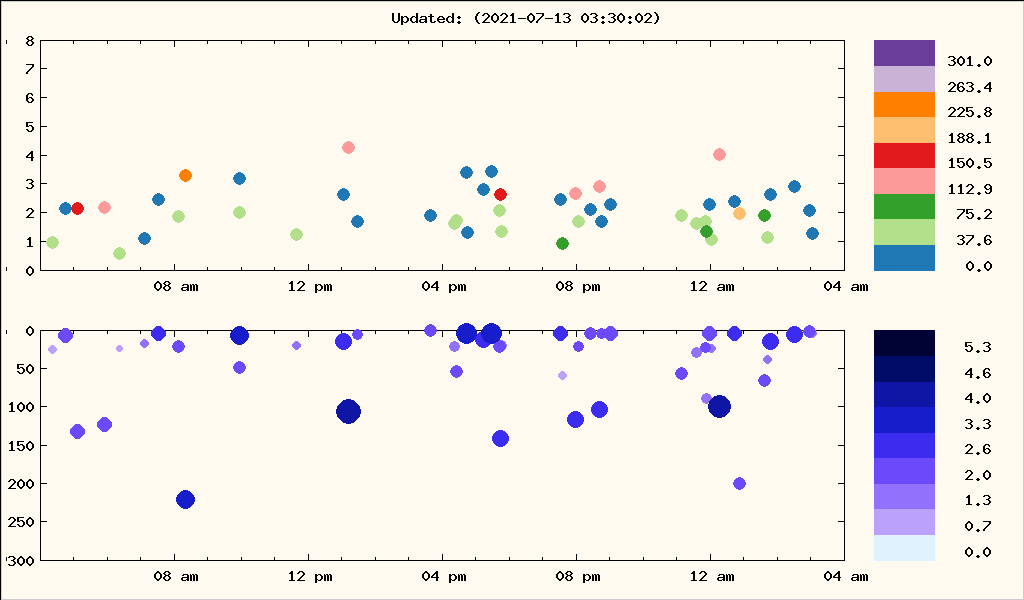
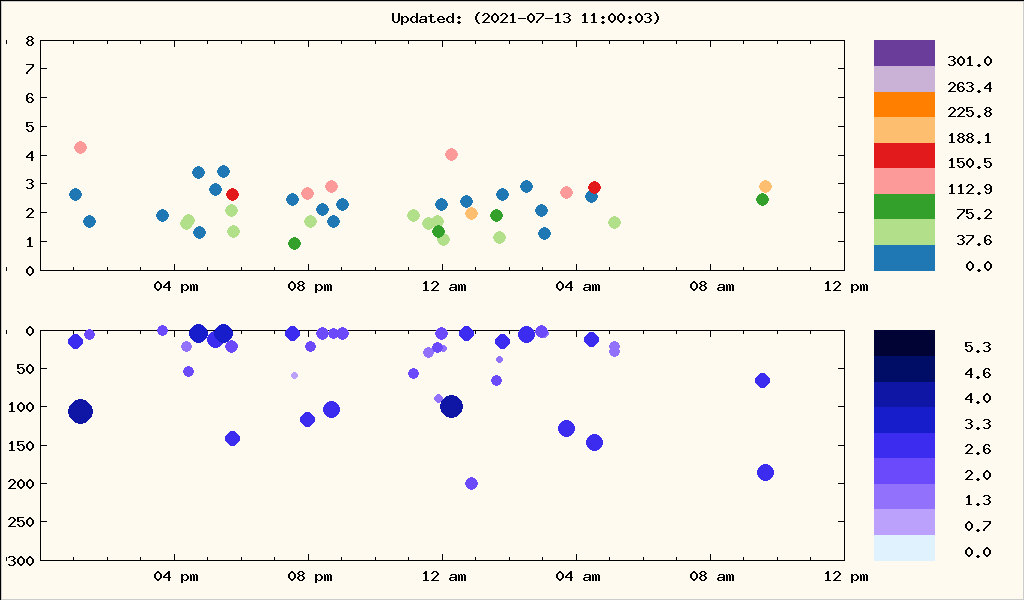
Snapshot

diff --git a/index.html b/index.html
@@ -65,12 +65,68 @@ td.depth { text-align: right; }
 </tr>
 <tr>
 	 <td align="left">&nbsp;</td> 
-	 <td align="left">03:30:02 am</td> 
-	 <td align="right">27:07</td> 
+	 <td align="left">11:00:03 am</td> 
+	 <td align="right">1:20:11</td> 
 	 <td colspan="3">&nbsp;</td> 
 </tr>
 <tr>
 	 <td align="left">2021-07-13</td> 
+	 <td align="left">09:39:52 am</td> 
+	 <td align="right">6:38</td> 
+	 <td class="magnitude06">2.89</td> 
+	 <td class="depth">186.43</td> 
+	 <td align="right"><a href="http://www.geonet.org.nz/quakes/region/newzealand/2021p521358" title="2021p521358" target="_blank" class="publicid">15 km south-west of Hawera</a></td> 
+</tr>
+<tr>
+	 <td align="left">&nbsp;</td> 
+	 <td align="left">09:33:14 am</td> 
+	 <td align="right">4:23:41</td> 
+	 <td class="magnitude05">2.46</td> 
+	 <td class="depth">66.45</td> 
+	 <td align="right"><a href="http://www.geonet.org.nz/quakes/region/newzealand/2021p521346" title="2021p521346" target="_blank" class="publicid">30 km east of Nelson</a></td> 
+</tr>
+<tr>
+	 <td align="left">&nbsp;</td> 
+	 <td align="left">05:09:33 am</td> 
+	 <td align="right">56</td> 
+	 <td class="magnitude04">1.64</td> 
+	 <td class="depth">21.08</td> 
+	 <td align="right"><a href="http://www.geonet.org.nz/quakes/region/newzealand/2021p520850" title="2021p520850" target="_blank" class="publicid">20 km south-east of Napier</a></td> 
+</tr>
+<tr>
+	 <td align="left">&nbsp;</td> 
+	 <td align="left">05:08:37 am</td> 
+	 <td align="right">35:10</td> 
+	 <td class="magnitude04">1.65</td> 
+	 <td class="depth">28.50</td> 
+	 <td align="right"><a href="http://www.geonet.org.nz/quakes/region/newzealand/2021p520849" title="2021p520849" target="_blank" class="publicid">Within 5 km of Waipukurau</a></td> 
+</tr>
+<tr>
+	 <td align="left">&nbsp;</td> 
+	 <td align="left">04:33:27 am</td> 
+	 <td align="right">5:02</td> 
+	 <td class="magnitude06">2.88</td> 
+	 <td class="depth">146.76</td> 
+	 <td align="right"><a href="http://www.geonet.org.nz/quakes/region/newzealand/2021p520783" title="2021p520783" target="_blank" class="publicid">15 km east of Tokoroa</a></td> 
+</tr>
+<tr>
+	 <td align="left">&nbsp;</td> 
+	 <td align="left">04:28:25 am</td> 
+	 <td align="right">46:03</td> 
+	 <td class="magnitude05">2.54</td> 
+	 <td class="depth">12.00</td> 
+	 <td align="right"><a href="http://www.geonet.org.nz/quakes/region/newzealand/2021p520774" title="2021p520774" target="_blank" class="publicid">30 km north-east of Seddon</a></td> 
+</tr>
+<tr>
+	 <td align="left">&nbsp;</td> 
+	 <td align="left">03:42:22 am</td> 
+	 <td align="right">39:27</td> 
+	 <td class="magnitude06">2.70</td> 
+	 <td class="depth">128.33</td> 
+	 <td align="right"><a href="http://www.geonet.org.nz/quakes/region/newzealand/2021p520687" title="2021p520687" target="_blank" class="publicid">25 km south-west of Motueka</a></td> 
+</tr>
+<tr>
+	 <td align="left">&nbsp;</td> 
 	 <td align="left">03:02:55 am</td> 
 	 <td align="right">4:54</td> 
 	 <td class="magnitude03">1.28</td> 
@@ -360,122 +416,10 @@ td.depth { text-align: right; }
 <tr>
 	 <td align="left">&nbsp;</td> 
 	 <td align="left">11:40:14 am</td> 
-	 <td align="right">1:42:09</td> 
+	 <td align="right">0</td> 
 	 <td class="magnitude03">1.23</td> 
 	 <td class="depth">19.80</td> 
 	 <td align="right"><a href="http://www.geonet.org.nz/quakes/region/newzealand/2021p518881" title="2021p518881" target="_blank" class="publicid">15 km north-west of Waipukurau</a></td> 
-</tr>
-<tr>
-	 <td align="left">&nbsp;</td> 
-	 <td align="left">09:58:05 am</td> 
-	 <td align="right">1:21</td> 
-	 <td class="magnitude06">3.20</td> 
-	 <td class="depth">7.70</td> 
-	 <td align="right"><a href="http://www.geonet.org.nz/quakes/region/newzealand/2021p518690" title="2021p518690" target="_blank" class="publicid">15 km west of Christchurch</a></td> 
-</tr>
-<tr>
-	 <td align="left">&nbsp;</td> 
-	 <td align="left">09:56:44 am</td> 
-	 <td align="right">1:35:20</td> 
-	 <td class="magnitude04">2.00</td> 
-	 <td class="depth">48.77</td> 
-	 <td align="right"><a href="http://www.geonet.org.nz/quakes/region/newzealand/2021p518687" title="2021p518687" target="_blank" class="publicid">5 km east of Murupara</a></td> 
-</tr>
-<tr>
-	 <td align="left">&nbsp;</td> 
-	 <td align="left">08:21:24 am</td> 
-	 <td align="right">13:26</td> 
-	 <td class="magnitude07">3.28</td> 
-	 <td class="depth">220.49</td> 
-	 <td align="right"><a href="http://www.geonet.org.nz/quakes/region/newzealand/2021p518508" title="2021p518508" target="_blank" class="publicid">25 km south-east of Te Kuiti</a></td> 
-</tr>
-<tr>
-	 <td align="left">&nbsp;</td> 
-	 <td align="left">08:07:58 am</td> 
-	 <td align="right">36:37</td> 
-	 <td class="magnitude04">1.88</td> 
-	 <td class="depth">21.58</td> 
-	 <td align="right"><a href="http://www.geonet.org.nz/quakes/region/newzealand/2021p518483" title="2021p518483" target="_blank" class="publicid">20 km south-west of Hastings</a></td> 
-</tr>
-<tr>
-	 <td align="left">&nbsp;</td> 
-	 <td align="left">07:31:21 am</td> 
-	 <td align="right">24:34</td> 
-	 <td class="magnitude05">2.44</td> 
-	 <td class="depth">5.00</td> 
-	 <td align="right"><a href="http://www.geonet.org.nz/quakes/region/newzealand/2021p518414" title="2021p518414" target="_blank" class="publicid">25 km north of Milford Sound</a></td> 
-</tr>
-<tr>
-	 <td align="left">&nbsp;</td> 
-	 <td align="left">07:06:47 am</td> 
-	 <td align="right">44:24</td> 
-	 <td class="magnitude03">1.10</td> 
-	 <td class="depth">17.65</td> 
-	 <td align="right"><a href="http://www.geonet.org.nz/quakes/region/newzealand/2021p518367" title="2021p518367" target="_blank" class="publicid">10 km west of Castlepoint</a></td> 
-</tr>
-<tr>
-	 <td align="left">&nbsp;</td> 
-	 <td align="left">06:22:23 am</td> 
-	 <td align="right">27:26</td> 
-	 <td class="magnitude02">0.57</td> 
-	 <td class="depth">24.24</td> 
-	 <td align="right"><a href="http://www.geonet.org.nz/quakes/region/newzealand/2021p518285" title="2021p518285" target="_blank" class="publicid">10 km east of Eketahuna</a></td> 
-</tr>
-<tr>
-	 <td align="left">&nbsp;</td> 
-	 <td align="left">05:54:57 am</td> 
-	 <td align="right">48:35</td> 
-	 <td class="magnitude05">2.18</td> 
-	 <td class="depth">123.73</td> 
-	 <td align="right"><a href="http://www.geonet.org.nz/quakes/region/newzealand/2021p518233" title="2021p518233" target="_blank" class="publicid">35 km west of Ohakune</a></td> 
-</tr>
-<tr>
-	 <td align="left">&nbsp;</td> 
-	 <td align="left">05:06:22 am</td> 
-	 <td align="right">21:12</td> 
-	 <td class="magnitude05">2.14</td> 
-	 <td class="depth">132.51</td> 
-	 <td align="right"><a href="http://www.geonet.org.nz/quakes/region/newzealand/2021p518142" title="2021p518142" target="_blank" class="publicid">30 km north-west of Turangi</a></td> 
-</tr>
-<tr>
-	 <td align="left">&nbsp;</td> 
-	 <td align="left">04:45:10 am</td> 
-	 <td align="right">23:21</td> 
-	 <td class="magnitude05">2.13</td> 
-	 <td class="depth">6.73</td> 
-	 <td align="right"><a href="http://www.geonet.org.nz/quakes/region/newzealand/2021p518102" title="2021p518102" target="_blank" class="publicid">20 km south-west of Cheviot</a></td> 
-</tr>
-<tr>
-	 <td align="left">&nbsp;</td> 
-	 <td align="left">04:21:49 am</td> 
-	 <td align="right">24:38</td> 
-	 <td class="magnitude03">0.97</td> 
-	 <td class="depth">24.84</td> 
-	 <td align="right"><a href="http://www.geonet.org.nz/quakes/region/newzealand/2021p518058" title="2021p518058" target="_blank" class="publicid">10 km east of Eketahuna</a></td> 
-</tr>
-<tr>
-	 <td align="left">&nbsp;</td> 
-	 <td align="left">03:57:11 am</td> 
-	 <td align="right">2:59</td> 
-	 <td class="magnitude05">2.48</td> 
-	 <td class="depth">247.88</td> 
-	 <td align="right"><a href="http://www.geonet.org.nz/quakes/region/newzealand/2021p518012" title="2021p518012" target="_blank" class="publicid">25 km south of Te Kuiti</a></td> 
-</tr>
-<tr>
-	 <td align="left">&nbsp;</td> 
-	 <td align="left">03:54:12 am</td> 
-	 <td align="right">3:01</td> 
-	 <td class="magnitude04">1.54</td> 
-	 <td class="depth">10.43</td> 
-	 <td align="right"><a href="http://www.geonet.org.nz/quakes/region/newzealand/2021p518007" title="2021p518007" target="_blank" class="publicid">20 km south-west of Turangi</a></td> 
-</tr>
-<tr>
-	 <td align="left">&nbsp;</td> 
-	 <td align="left">03:51:11 am</td> 
-	 <td align="right">0</td> 
-	 <td class="magnitude05">2.38</td> 
-	 <td class="depth">5.00</td> 
-	 <td align="right"><a href="http://www.geonet.org.nz/quakes/region/newzealand/2021p518001" title="2021p518001" target="_blank" class="publicid">70 km north-west of Te Kaha</a></td> 
 </tr>
 </table>
 

diff --git a/image.html b/image.html
@@ -38,9 +38,9 @@ td.border { border: 1px #330000 dashed; }
 <center>[ &lt;<a href="index.html" title="Main">Main</a>&gt; | &lt;<a href="image.html" title="Here">Re-load</a>&gt; ]</center>
 <dl><dt>All images on this page are in 2 parts:</dt> <dd>The upper part displays magnitude, coloured by depth.</dd> <dd>The lower part displays depth, coloured by magnitude.</dd></dl>
 <table summary="">
-<tr><td class="border"><table summary=""><tr><th align="left">Period</th> <td>:</td> <td>1 week</td></tr> <tr><td>Creation date</td> <td>:</td> <td>2021-07-13 03:30:04</td></tr></table> <a href="depth-magnitude-multiplot_week_0001.png" title="1 week" target="_blank"><img src="depth-magnitude-multiplot_week_0001.png" alt="1 week" title="1 week" /></a></td></tr>
-<tr><td class="border"><table summary=""><tr><th align="left">Period</th> <td>:</td> <td>2 weeks</td></tr> <tr><td>Creation date</td> <td>:</td> <td>2021-07-13 03:30:04</td></tr></table> <a href="depth-magnitude-multiplot_week_0002.png" title="2 weeks" target="_blank"><img src="depth-magnitude-multiplot_week_0002.png" alt="2 weeks" title="2 weeks" /></a></td></tr>
-<tr><td class="border"><table summary=""><tr><th align="left">Period</th> <td>:</td> <td>4 weeks</td></tr> <tr><td>Creation date</td> <td>:</td> <td>2021-07-13 03:30:04</td></tr></table> <a href="depth-magnitude-multiplot_week_0004.png" title="4 weeks" target="_blank"><img src="depth-magnitude-multiplot_week_0004.png" alt="4 weeks" title="4 weeks" /></a></td></tr>
+<tr><td class="border"><table summary=""><tr><th align="left">Period</th> <td>:</td> <td>1 week</td></tr> <tr><td>Creation date</td> <td>:</td> <td>2021-07-13 11:00:04</td></tr></table> <a href="depth-magnitude-multiplot_week_0001.png" title="1 week" target="_blank"><img src="depth-magnitude-multiplot_week_0001.png" alt="1 week" title="1 week" /></a></td></tr>
+<tr><td class="border"><table summary=""><tr><th align="left">Period</th> <td>:</td> <td>2 weeks</td></tr> <tr><td>Creation date</td> <td>:</td> <td>2021-07-13 11:00:04</td></tr></table> <a href="depth-magnitude-multiplot_week_0002.png" title="2 weeks" target="_blank"><img src="depth-magnitude-multiplot_week_0002.png" alt="2 weeks" title="2 weeks" /></a></td></tr>
+<tr><td class="border"><table summary=""><tr><th align="left">Period</th> <td>:</td> <td>4 weeks</td></tr> <tr><td>Creation date</td> <td>:</td> <td>2021-07-13 11:00:04</td></tr></table> <a href="depth-magnitude-multiplot_week_0004.png" title="4 weeks" target="_blank"><img src="depth-magnitude-multiplot_week_0004.png" alt="4 weeks" title="4 weeks" /></a></td></tr>
 </table>
 <center>[ &lt;<a href="index.html" title="Main">Main</a>&gt; | &lt;<a href="image.html" title="Here">Re-load</a>&gt; ]</center>
 <div class="ack">
